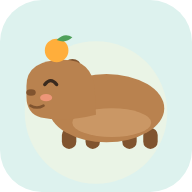
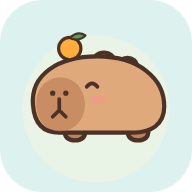
新版豚豚造型與圖示、專注計時器、段考成績圖、每週摘要
Claude-Session: https://claude.ai/code/session_01HJuhnYS1rGmZB59baY9RQL

Changed region(s): [[0.125, 0.1562, 0.875, 0.7812]]

diff --git a/index.html b/index.html
@@ -23,7 +23,7 @@
   --primary:#23938A; --primary-ink:#FFFFFF; --primary-soft:#DDF2EE;
   --sun:#FFAE3B; --sun-ink:#4A2C00; --sun-soft:#FFF0D9;
   --ok:#3E9B4F; --ok-soft:#E1F3DF; --warn:#C25E00; --bad:#D9483B; --bad-soft:#FCE4E0;
-  --capy:#B9824F; --capy-dark:#80542F; --capy-belly:#D9AA78; --blush:#FF9C86; --leaf:#4FA05A;
+  --capy:#DFA97C; --capy-dark:#BD8259; --capy-belly:#E9BE96; --capy-line:#4A3326; --blush:#F29A8A; --leaf:#4FA05A;
   --chip-l:89%; --chip-ink-l:26%; --shadow:0 2px 0 rgba(58,42,30,.08),0 10px 24px -14px rgba(58,42,30,.35);
   --f-display:"LXGW WenKai TC","Kaiti TC","STKaiti","KaiTi",serif;
   --f-body:"Noto Sans TC","PingFang TC","Microsoft JhengHei",system-ui,sans-serif;
@@ -33,7 +33,7 @@
   --primary:#62CFC3; --primary-ink:#0E2422; --primary-soft:#1E3B38;
   --sun:#FFBE5C; --sun-ink:#2E1C00; --sun-soft:#3A2F1C;
   --ok:#7BD48A; --ok-soft:#1E3A22; --warn:#FFAA55; --bad:#FF8F82; --bad-soft:#47221E;
-  --capy:#C48F5C; --capy-dark:#8E5F36; --capy-belly:#DDB284; --blush:#E98A76; --leaf:#6CC077;
+  --capy:#D9A273; --capy-dark:#AE744C; --capy-belly:#E3B68C; --capy-line:#24170F; --blush:#E98A76; --leaf:#6CC077;
   --chip-l:30%; --chip-ink-l:88%; --shadow:0 1px 0 rgba(0,0,0,.3),0 8px 24px -12px rgba(0,0,0,.6);
   color-scheme:dark}}
 :root[data-theme="dark"]{
@@ -41,7 +41,7 @@
   --primary:#62CFC3; --primary-ink:#0E2422; --primary-soft:#1E3B38;
   --sun:#FFBE5C; --sun-ink:#2E1C00; --sun-soft:#3A2F1C;
   --ok:#7BD48A; --ok-soft:#1E3A22; --warn:#FFAA55; --bad:#FF8F82; --bad-soft:#47221E;
-  --capy:#C48F5C; --capy-dark:#8E5F36; --capy-belly:#DDB284; --blush:#E98A76; --leaf:#6CC077;
+  --capy:#D9A273; --capy-dark:#AE744C; --capy-belly:#E3B68C; --capy-line:#24170F; --blush:#E98A76; --leaf:#6CC077;
   --chip-l:30%; --chip-ink-l:88%; --shadow:0 1px 0 rgba(0,0,0,.3),0 8px 24px -12px rgba(0,0,0,.6);
   color-scheme:dark}
 
@@ -77,6 +77,11 @@ header.top{display:flex;align-items:flex-end;justify-content:space-between;gap:1
 .reward span{min-width:0;overflow-wrap:anywhere}
 .cost{display:inline-flex;align-items:center;gap:3px;font-weight:700;font-variant-numeric:tabular-nums;white-space:nowrap}
 .daypick{width:36px;height:36px;font-size:16px}
+.fc-time{font-family:var(--f-display);font-size:58px;line-height:1;font-variant-numeric:tabular-nums}
+.fc .bar{flex:none;height:14px;min-width:0}
+.chart-card{border:2px solid var(--line);border-radius:14px;padding:10px 12px;display:flex;flex-direction:column;gap:6px;min-width:0}
+.chart-card svg{display:block;width:100%;height:auto}
+.charts{display:grid;grid-template-columns:repeat(auto-fill,minmax(260px,1fr));gap:10px}
 .hero{display:flex;gap:12px;align-items:flex-end;min-width:0}
 .hero .hello{min-width:0}
 .mascot{width:100px;flex:none;cursor:pointer;background:none;border:0;padding:0}
@@ -437,10 +442,18 @@ table.scores{width:100%;border-collapse:collapse;font-size:14px}
         <button class="btn ghost" id="parent-lock-btn" type="button">鎖上</button></div>
     </div>
     <div class="stats" id="parent-stats"></div>
+    <div class="bag" id="weekly">
+      <div class="row between"><div class="label">本週摘要</div><button class="btn ghost" id="wk-copy" type="button" style="padding:4px 12px">複製文字，貼到 LINE</button></div>
+      <div id="wk-text" style="white-space:pre-line;font-size:14px;line-height:1.7"></div>
+    </div>
     <div>
       <div class="label" style="margin-bottom:8px">這週每天完成多少</div>
       <div class="week" id="parent-week"></div>
     </div>
+    <div class="divider"></div>
+    <h3>段考成績</h3>
+    <p class="muted small">考完在「考試與提醒」填上分數，這裡會畫出每一科的變化，並列出考前練習題的答對率。</p>
+    <div id="parent-exams"></div>
     <div class="divider"></div>
     <h3>練習成績</h3>
     <div id="parent-scores" style="overflow-x:auto"></div>
@@ -474,6 +487,21 @@ table.scores{width:100%;border-collapse:collapse;font-size:14px}
     <div class="row" style="justify-content:center">
       <button class="btn" id="al-ok">好，我開始了</button>
       <button class="btn ghost" id="al-snooze">再 5 分鐘</button>
+    </div>
+  </div>
+</div>
+<div class="overlay" id="focus" hidden>
+  <div class="alert fc" role="dialog" aria-labelledby="fc-title">
+    <div class="capy" id="fc-capy" style="width:150px;margin:0 auto" aria-hidden="true"></div>
+    <div class="label" id="fc-kicker">專注中</div>
+    <h2 id="fc-title"></h2>
+    <div class="fc-time" id="fc-time" aria-live="off">00:00</div>
+    <div class="bar"><i id="fc-bar" style="width:0"></i></div>
+    <p class="muted small" id="fc-note">手機放旁邊，豚豚陪你一起讀。</p>
+    <div class="row" style="justify-content:center">
+      <button class="btn" id="fc-pause" type="button">暫停</button>
+      <button class="btn primary" id="fc-done" type="button">讀完了</button>
+      <button class="btn ghost" id="fc-quit" type="button">先不讀了</button>
     </div>
   </div>
 </div>
@@ -678,10 +706,12 @@ function renderPlan(){
       :it.exam&&ask?`<button class="go" data-examnote="${it.exam.id}">幫我整理這次考試的重點 →</button>`
       :it.kind==='wrong'?`<button class="go" data-wrongstart="1">開始錯題複習 →</button>`
       :s&&(it.kind==='exam'||it.kind==='review')&&noteSubjects.has(s.id)?`<button class="go" data-practice="${s.id}">去做 ${esc(s.name)} 練習題 →</button>`:'';
+    const focusBtn=!isBreak&&!isDone&&!readOnly&&it.kind!=='pack'?`<button class="go" data-focus="${it.id}">▶ 開始專注 ${it.mins} 分鐘</button>`:'';
+    const fm=(progress[dk]&&progress[dk].focus&&progress[dk].focus[it.id])||0;
     return `<li class="${cls}">
       <div class="time">${fmt(it.start)}<small>${it.mins} 分鐘</small></div>
       <div class="what"><div class="t">${tag}<span class="title">${esc(isBreak?it.title:(s?kind:it.title))}</span>${badge}</div>
-      <div class="n">${esc(it.kind==='activity'?it.note+'，讀書計劃會避開這段時間':isBreak?'離開書桌，喝口水、看看遠方':it.note)}</div>${practice}</div>
+      <div class="n">${esc(it.kind==='activity'?it.note+'，讀書計劃會避開這段時間':isBreak?'離開書桌，喝口水、看看遠方':it.note)}${fm?`（專注了 ${fm} 分鐘）`:''}</div>${practice}${focusBtn}</div>
       ${isBreak?'<span></span>':`<button class="check" data-id="${it.id}" aria-pressed="${isDone}" aria-label="${isDone?'取消完成':'完成'}：${esc(it.title)}" ${readOnly?'disabled':''}>${isDone?'✓':''}</button>`}
     </li>`}).join('');
   const total=tasks.length, pct=total?nDone/total:0, starN=Math.round(pct*5);
@@ -708,6 +738,7 @@ function bagHTML(){
 }
 $('panel-plan').addEventListener('click',e=>{
   const d=e.target.closest('.day'); if(d){viewDow=+d.dataset.d;renderPlan();return}
+  const fb=e.target.closest('[data-focus]'); if(fb){startFocus(fb.dataset.focus);return}
   const c=e.target.closest('.check');
   if(c){
     const dk=dkey(dateForDow(viewDow));
@@ -1110,7 +1141,7 @@ function renderRem(){
     const d=daysBetween(tk,e.date), s=subj(e.sid), dt=new Date(e.date+'T00:00');
     return `<li class="rem${d<0?' past':''}"><div class="when">${d<0?'考完了':d===0?'今天':d+' 天後'}<small>${dt.getMonth()+1}/${dt.getDate()}（${WD[dt.getDay()]}）</small></div>
       <div>${s?`<span class="subj" style="--h:${s.h}">${esc(s.name)}</span> `:''}<b>${esc(e.title)}</b>${e.scope?`<div class="small muted">範圍：${esc(e.scope)}</div>`:''}</div>
-      <div class="row" style="gap:4px;justify-content:flex-end">${d>=0&&s?(noteForExam(e.id)?`<button class="go" data-opennote="${noteForExam(e.id)}">看段考重點</button>`:(ask?`<button class="go" data-examnote="${e.id}">整理段考重點</button>`:'')):''}<button class="link" data-edel="${e.id}">刪除</button></div></li>`}).join('')
+      <div class="row" style="gap:4px;justify-content:flex-end">${d<=0?`<input class="inline-input" type="number" min="0" max="100" inputmode="numeric" placeholder="幾分" value="${e.score!=null?e.score:''}" data-escore="${e.id}" style="width:76px" aria-label="${esc(e.title)}的分數">`:''}${d>=0&&s?(noteForExam(e.id)?`<button class="go" data-opennote="${noteForExam(e.id)}">看段考重點</button>`:(ask?`<button class="go" data-examnote="${e.id}">整理段考重點</button>`:'')):''}<button class="link" data-edel="${e.id}">刪除</button></div></li>`}).join('')
     :'<li class="muted small">還沒有考試。加上考試日期，讀書計劃就會自動幫你多排複習時間。</li>';
   const nowD=now(), list=[...main.reminders].sort((a,b)=>(a.date+a.time).localeCompare(b.date+b.time));
   $('rem-list').innerHTML=list.length?list.map(r=>{
@@ -1128,6 +1159,12 @@ $('exam-form').addEventListener('submit',e=>{
   const d=daysBetween(todayKey(),x.date);
   toast(d>7?'考試加好了，考前一週會開始多排複習':'考試加好了，讀書計劃已經多排複習時間');
 });
+$('exam-list').addEventListener('change',e=>{
+  const id=e.target.dataset.escore; if(!id) return; const x=main.exams.find(y=>y.id===id); if(!x) return;
+  const v=e.target.value.trim();
+  if(v===''){delete x.score} else {x.score=Math.max(0,Math.min(100,Math.round(+v)))}
+  saveMain(); if(v!=='') toast(x.score>=90?'好厲害！豚豚幫你拍拍手':'分數記下來了');
+});
 $('exam-list').addEventListener('click',e=>{const b=e.target.closest('[data-edel]');if(!b)return;main.exams=main.exams.filter(x=>x.id!==b.dataset.edel);saveMain()});
 $('rem-form').addEventListener('submit',e=>{
   e.preventDefault();
@@ -1143,7 +1180,8 @@ function setFormDefaults(){
 
 /* ---------- parent ---------- */
 function renderParent(){
-  renderRewardsAdmin();
+  renderRewardsAdmin(); renderExamScores();
+  $('wk-text').textContent=weeklyText();
   const td=now().getDay(), mon=dateForDow(1); if(td===0) mon.setDate(mon.getDate()-7);
   let sumDone=0,sumTotal=0; const cols=[];
   for(let i=0;i<7;i++){
@@ -1163,7 +1201,7 @@ function renderParent(){
     ['這週完成率',sumTotal?Math.round(sumDone/sumTotal*100)+'%':'—',`${sumDone}/${sumTotal} 項`],
     ['下一場考試',nx?(nx.days===0?'今天':nx.days+' 天'):'—',nx?`${subj(nx.sid)?.name||''} ${nx.title}`:'沒有排考試'],
     ['練習平均答對',avg==null?'—':avg+'%',`共練習 ${allAtt.length} 次`],
-    ['重點筆記',Object.keys(notes).length+' 份',main.school.grade||'年級未填']
+    ['這週專注',weekKeys().reduce((a,k)=>a+(progress[k]?+progress[k].focusMin||0:0),0)+' 分','用專注計時器讀的時間']
   ].map(([k,v,s])=>`<div class="stat"><div class="k">${k}</div><div class="v">${esc(v)}</div><div class="small muted">${esc(s)}</div></div>`).join('');
   const rows=noteList().filter(n=>(n.attempts||[]).length);
   $('parent-scores').innerHTML=rows.length?`<table class="scores"><thead><tr><th>科目</th><th>單元</th><th>練習次數</th><th>最近一次</th><th>最好</th></tr></thead><tbody>${rows.map(n=>{
@@ -1226,6 +1264,7 @@ $('test-btn').addEventListener('click',()=>{
 function tick(){
   const n=now(), hm=pad(n.getHours())+':'+pad(n.getMinutes()), dk=dkey(n);
   $('clock').textContent=hm;
+  if(focus) return;
   if(!$('overlay').hidden) return;
   const done=(progress[dk]&&progress[dk].done)||{};
   for(const it of buildPlan(n.getDay())){
@@ -1280,6 +1319,138 @@ document.addEventListener('click',e=>{
   const o=e.target.closest('[data-opennote]'); if(o){openNote=o.dataset.opennote;showTab('notes');return}
   if(e.target.closest('[data-wrongstart]')){showTab('notes');startWrongReview()}
 });
+
+/* ---------- focus timer ---------- */
+let focus=null, wakeLock=null;
+function startFocus(itemId){
+  const dk=dkey(dateForDow(viewDow)), it=buildPlan(viewDow).find(i=>i.id===itemId); if(!it) return;
+  const ms=it.mins*60000;
+  focus={dk,id:it.id,title:it.title,total:ms,left:ms,endAt:Date.now()+ms,paused:false,elapsed:0,runStart:Date.now(),hiddenAt:null,leaves:0};
+  $('fc-title').textContent=it.title; $('fc-kicker').textContent='專注中'; $('fc-capy').innerHTML=capy('normal');
+  $('fc-note').textContent='手機放旁邊，豚豚陪你一起讀。'; $('fc-pause').textContent='暫停';
+  $('focus').hidden=false; tickFocus();
+  try{ if(navigator.wakeLock) navigator.wakeLock.request('screen').then(w=>{wakeLock=w}).catch(()=>{}) }catch(e){}
+}
+function focusSpent(){return focus?focus.elapsed+(focus.paused?0:Date.now()-focus.runStart):0}
+function tickFocus(){
+  if(!focus) return;
+  const left=focus.paused?focus.left:Math.max(0,focus.endAt-Date.now());
+  $('fc-time').textContent=pad(Math.floor(left/60000))+':'+pad(Math.floor(left/1000)%60);
+  $('fc-bar').style.width=Math.min(100,100-left/focus.total*100)+'%';
+  if(left<=0&&!focus.paused) finishFocus(true);
+}
+setInterval(tickFocus,1000);
+function finishFocus(complete){
+  const f=focus; if(!f) return;
+  const mins=Math.round(focusSpent()/60000);
+  focus=null; $('focus').hidden=true;
+  try{ if(wakeLock) wakeLock.release() }catch(e){} wakeLock=null;
+  if(!complete&&mins<1){toast('沒關係，準備好再開始');return}
+  const p=progress[f.dk]?clone(progress[f.dk]):{date:f.dk,done:{}};
+  p.focus=p.focus||{}; p.focus[f.id]=(p.focus[f.id]||0)+Math.max(1,mins);
+  p.focusMin=Object.values(p.focus).reduce((a,b)=>a+b,0); p.leaves=(p.leaves||0)+f.leaves;
+  if(complete){
+    p.done[f.id]=true;
+    const tasks=buildPlanFor(new Date(f.dk+'T12:00:00')).filter(i=>i.kind!=='break'&&i.kind!=='activity');
+    p.total=tasks.length; p.count=tasks.filter(i=>p.done[i.id]).length;
+  }
+  p.date=f.dk; progress[f.dk]=p; saveProgress(f.dk); renderPlan(); renderParent();
+  if(complete){chime(); toast(`專心讀了 ${Math.max(1,mins)} 分鐘！+1 柚子`)} else toast(`讀了 ${mins} 分鐘，有讀就很棒`);
+}
+$('fc-pause').addEventListener('click',()=>{
+  if(!focus) return;
+  if(focus.paused){focus.paused=false;focus.runStart=Date.now();focus.endAt=Date.now()+focus.left;$('fc-pause').textContent='暫停';$('fc-kicker').textContent='專注中'}
+  else{focus.left=Math.max(0,focus.endAt-Date.now());focus.elapsed+=Date.now()-focus.runStart;focus.paused=true;$('fc-pause').textContent='繼續';$('fc-kicker').textContent='暫停中'}
+  tickFocus();
+});
+$('fc-done').addEventListener('click',()=>finishFocus(true));
+$('fc-quit').addEventListener('click',()=>finishFocus(false));
+document.addEventListener('visibilitychange',()=>{
+  if(!focus) return;
+  if(document.hidden){focus.hiddenAt=Date.now();return}
+  if(!focus.hiddenAt) return;
+  const sec=Math.round((Date.now()-focus.hiddenAt)/1000); focus.hiddenAt=null;
+  if(sec<10) return;
+  focus.leaves++;
+  $('fc-capy').innerHTML=capy('alert');
+  $('fc-note').textContent=`豚豚發現你離開了 ${sec>=60?Math.round(sec/60)+' 分鐘':sec+' 秒'}，回來繼續加油！`;
+  setTimeout(()=>{if(focus)$('fc-capy').innerHTML=capy('normal')},4000);
+});
+
+/* ---------- weekly summary ---------- */
+function weekKeys(){const td=now().getDay(), mon=dateForDow(1); if(td===0) mon.setDate(mon.getDate()-7);
+  return [...Array(7)].map((_,i)=>{const d=new Date(mon);d.setDate(mon.getDate()+i);return dkey(d)})}
+function weeklyText(){
+  const keys=weekKeys(), tk=todayKey(), past=keys.filter(k=>k<=tk);
+  let done=0,total=0,focusMin=0,leaves=0,low=null;
+  past.forEach(k=>{
+    const p=progress[k]; let t=p&&p.total, c=p?+p.count||0:0;
+    if(!t) t=buildPlanFor(new Date(k+'T12:00:00')).filter(x=>x.kind!=='break'&&x.kind!=='activity').length;
+    done+=c; total+=t; focusMin+=p?+p.focusMin||0:0; leaves+=p?+p.leaves||0:0;
+    if(t&&(low===null||c/t<low.r)) low={k,r:c/t};
+  });
+  const atts=noteList().flatMap(n=>(n.attempts||[]).filter(a=>a.at&&dkey(new Date(a.at))>=keys[0]).map(a=>({...a,sid:n.sid})));
+  const accAll=atts.reduce((a,x)=>a+x.score,0), accTot=atts.reduce((a,x)=>a+x.total,0);
+  const bySub={}; atts.forEach(a=>{const o=bySub[a.sid]||(bySub[a.sid]={s:0,t:0}); o.s+=a.score; o.t+=a.total});
+  const weak=Object.entries(bySub).filter(([,o])=>o.t>=5&&o.s/o.t<0.6).map(([sid])=>subj(sid)?.name).filter(Boolean);
+  const weekYuzu=past.reduce((a,k)=>a+(progress[k]?+progress[k].count||0:0),0)+atts.reduce((a,x)=>a+x.score,0);
+  const ex=upcomingExams(tk).slice(0,3);
+  const scored=main.exams.filter(e=>e.score!=null&&e.date>=keys[0]&&e.date<=keys[6]);
+  const md=k=>`${+k.slice(5,7)}/${+k.slice(8)}`;
+  const lines=[`小書包週報（${md(keys[0])}–${md(keys[6])}）`,
+    `完成率：${total?Math.round(done/total*100):0}%（${done}/${total} 項）`,
+    `專注時間：${focusMin} 分鐘${leaves?`，中途離開畫面 ${leaves} 次`:''}`,
+    `練習題：${atts.length?`做了 ${atts.length} 次，平均答對 ${Math.round(accAll/Math.max(1,accTot)*100)}%`:'這週還沒練習'}；錯題本還有 ${wrongList().length} 題`,
+    `柚子：這週賺了 ${weekYuzu} 顆，現在有 ${yuzuBalance()} 顆`];
+  if(scored.length) lines.push('這週成績：'+scored.map(e=>`${subj(e.sid)?.name||''}${e.title} ${e.score} 分`).join('、'));
+  if(ex.length) lines.push('接下來的考試：'+ex.map(e=>`${subj(e.sid)?.name||''}${e.title}（${e.days===0?'今天':e.days+' 天後'}）`).join('、'));
+  const tips=[];
+  if(low&&low.r<0.6){const d=new Date(low.k+'T12:00:00'); const busy=(main.activities||[]).some(a=>(a.days||[]).includes(d.getDay()));
+    tips.push(`星期${WD[d.getDay()]}完成得最少${busy?'（那天有補習）':''}，可以把那天的預習移到週末。`)}
+  if(weak.length) tips.push(`${weak.join('、')}的練習答對率不到六成，可以先看重點再做錯題複習。`);
+  if(ex[0]&&ex[0].days<=7&&!noteForExam(ex[0].id)) tips.push(`${subj(ex[0].sid)?.name||''}${ex[0].title}快到了，可以先用「依段考範圍整理」整理重點。`);
+  if(!tips.length) tips.push(total&&done/total>=0.8?'這週表現很穩定，記得多稱讚她！':'先從每天完成一半開始，慢慢加上去就好。');
+  lines.push('豚豚建議：'+tips.join(''));
+  return lines.join('\n');
+}
+$('wk-copy').addEventListener('click',()=>{
+  const t=weeklyText();
+  navigator.clipboard.writeText(t).then(()=>toast('週報複製好了，可以貼到 LINE')).catch(()=>{
+    const r=document.createRange(); r.selectNodeContents($('wk-text')); const sel=getSelection(); sel.removeAllRanges(); sel.addRange(r); toast('已經選好文字，按「拷貝」就可以');
+  });
+});
+
+/* ---------- exam score charts ---------- */
+function scoreChart(list){
+  const W=300,H=120,l=30,r=14,t=14,b=26;
+  const minS=Math.min(...list.map(e=>e.score)), lo=Math.max(0,Math.min(60,Math.floor((minS-10)/20)*20));
+  const x=i=>list.length===1?(l+W-r)/2:l+i*(W-l-r)/(list.length-1);
+  const y=v=>t+(100-v)*(H-t-b)/(100-lo);
+  let g='';
+  for(let v=lo;v<=100;v+=20) g+=`<line x1="${l}" x2="${W-r}" y1="${y(v)}" y2="${y(v)}" stroke="var(--line)" stroke-width="1"/><text x="${l-6}" y="${y(v)+4}" text-anchor="end" font-size="11" fill="var(--muted)">${v}</text>`;
+  const pts=list.map((e,i)=>`${x(i)},${y(e.score)}`).join(' ');
+  const marks=list.map((e,i)=>{const d=new Date(e.date+'T00:00');
+    return `<g><title>${esc(e.title)}・${d.getMonth()+1}/${d.getDate()}・${e.score} 分</title>
+      <circle cx="${x(i)}" cy="${y(e.score)}" r="14" fill="transparent"/>
+      <circle cx="${x(i)}" cy="${y(e.score)}" r="5" fill="var(--primary)" stroke="var(--paper)" stroke-width="2"/>
+      <text x="${x(i)}" y="${H-8}" text-anchor="middle" font-size="11" fill="var(--muted)">${d.getMonth()+1}/${d.getDate()}</text></g>`}).join('');
+  const last=list[list.length-1], lx=x(list.length-1), ly=y(last.score);
+  return `<svg viewBox="0 0 ${W} ${H}" role="img" aria-label="分數變化">${g}
+    ${list.length>1?`<polyline points="${pts}" fill="none" stroke="var(--primary)" stroke-width="2" stroke-linejoin="round" stroke-linecap="round"/>`:''}
+    ${marks}<text x="${Math.min(lx,W-r-4)}" y="${ly-10}" text-anchor="${list.length===1?'middle':'end'}" font-size="13" font-weight="700" fill="var(--ink)">${last.score}</text></svg>`;
+}
+function renderExamScores(){
+  const by={}; main.exams.filter(e=>e.score!=null&&subj(e.sid)).sort((a,b)=>a.date.localeCompare(b.date)).forEach(e=>{(by[e.sid]=by[e.sid]||[]).push(e)});
+  const ids=Object.keys(by);
+  $('parent-exams').innerHTML=ids.length?`<div class="charts">${ids.map(sid=>{
+    const s=subj(sid), list=by[sid];
+    const at=noteList().filter(n=>n.sid===sid).flatMap(n=>n.attempts||[]), acc=at.length?Math.round(at.reduce((a,x)=>a+x.score,0)/Math.max(1,at.reduce((a,x)=>a+x.total,0))*100):null;
+    return `<div class="chart-card"><div class="row between"><span class="subj" style="--h:${s.h}">${esc(s.name)}</span>
+      <span class="small muted">${acc==null?'還沒做過練習題':'練習答對率 '+acc+'%'}</span></div>
+      ${scoreChart(list)}
+      <div class="small muted">${list.map(e=>`${esc(e.title)} ${e.score} 分`).join('・')}</div></div>`}).join('')}</div>`
+    :'<p class="muted small">還沒有成績。考完試後，到「考試與提醒」在那場考試旁邊填上分數。</p>';
+}
 
 /* ---------- yuzu points ---------- */
 const yuzu=(n=22)=>`<svg width="${n}" height="${n}" viewBox="0 0 24 24" aria-hidden="true"><circle cx="12" cy="13.5" r="9" fill="var(--sun)"/><circle cx="9" cy="11" r="2" fill="#fff" opacity=".35"/><path d="M12 5q4-5 9-2q-4 4-9 2z" fill="var(--leaf)"/></svg>`;
@@ -1439,23 +1610,24 @@ $('panel-parent').addEventListener('click',e=>{
 
 /* ---------- mascot ---------- */
 function capy(mood,spa){
-  const eye=mood==='happy'?'<path d="M21 37q4.5-6 9 0" fill="none" stroke="var(--ink)" stroke-width="2.6" stroke-linecap="round"/>'
-    :mood==='sleep'?'<path d="M21 38h9" stroke="var(--ink)" stroke-width="2.6" stroke-linecap="round"/>'
-    :'<circle cx="26" cy="37" r="3.2" fill="var(--ink)"/><circle cx="27.2" cy="35.8" r="1.1" fill="#fff"/>';
-  const extra=mood==='sleep'?'<text x="60" y="22" font-size="15" font-weight="700" fill="var(--muted)" font-family="sans-serif">z z</text>'
-    :mood==='alert'?'<text x="62" y="26" font-size="24" font-weight="700" fill="var(--bad)" font-family="sans-serif">!</text>':'';
-  const legs=spa?'':'<rect x="34" y="70" width="11" height="16" rx="5.5" fill="var(--capy-dark)"/><rect x="52" y="72" width="11" height="14" rx="5.5" fill="var(--capy-dark)"/><rect x="80" y="72" width="11" height="14" rx="5.5" fill="var(--capy-dark)"/><rect x="96" y="70" width="11" height="16" rx="5.5" fill="var(--capy-dark)"/>';
-  const water=spa?'<path d="M0 64q15-7 30 0t30 0 30 0 30 0V90H0z" fill="var(--primary)" opacity=".85"/><path d="M86 22q-4-6 0-12M98 24q-4-6 0-12M110 22q-4-6 0-12" fill="none" stroke="var(--muted)" stroke-width="2.2" stroke-linecap="round" opacity=".7"/>':'';
-  return `<svg viewBox="0 0 120 90" aria-hidden="true">${legs}
-    <ellipse cx="68" cy="55" rx="44" ry="26" fill="var(--capy)"/>
-    <ellipse cx="72" cy="66" rx="30" ry="11" fill="var(--capy-belly)" opacity=".55"/>
-    <ellipse cx="42" cy="23" rx="6.5" ry="5.5" fill="var(--capy-dark)"/>
-    <path d="M7 38q0-20 28-20q22 0 24 22l1 20q-24 6-42 2q-11-3-11-16z" fill="var(--capy)"/>
-    <ellipse cx="10.5" cy="43" rx="3.6" ry="2.5" fill="var(--capy-dark)"/>
-    <path d="M10 53q5 3 10 0" fill="none" stroke="var(--capy-dark)" stroke-width="2" stroke-linecap="round"/>
+  const L='var(--capy-line)', w=3.2;
+  const eye=mood==='happy'?`<path d="M53 46q4-5 8 0" fill="none" stroke="${L}" stroke-width="3" stroke-linecap="round"/>`
+    :mood==='sleep'?`<path d="M52 46q4.5 3.5 9 0" fill="none" stroke="${L}" stroke-width="3" stroke-linecap="round"/>`
+    :`<ellipse cx="57" cy="45" rx="2.9" ry="3.5" fill="${L}"/>`;
+  const extra=mood==='sleep'?'<text x="76" y="18" font-size="15" font-weight="700" fill="var(--muted)" font-family="sans-serif">z z</text>'
+    :mood==='alert'?'<text x="78" y="20" font-size="24" font-weight="700" fill="var(--bad)" font-family="sans-serif">!</text>':'';
+  const feet=spa?'':`<path d="M36 79q0 8 8 8t8-8" fill="var(--capy-dark)" stroke="${L}" stroke-width="${w}"/><path d="M84 79q0 8 8 8t8-8" fill="var(--capy-dark)" stroke="${L}" stroke-width="${w}"/>`;
+  const water=spa?'<path d="M0 64q15-7 30 0t30 0 30 0 30 0V96H0z" fill="var(--primary)" opacity=".88"/><path d="M94 20q-4-6 0-12M106 22q-4-6 0-12" fill="none" stroke="var(--muted)" stroke-width="2.4" stroke-linecap="round" opacity=".7"/>':'';
+  return `<svg viewBox="0 0 120 96" aria-hidden="true">${feet}
+    <ellipse cx="66" cy="27" rx="8" ry="7" fill="var(--capy-dark)" stroke="${L}" stroke-width="${w}"/>
+    <ellipse cx="84" cy="30" rx="7" ry="6" fill="var(--capy-dark)" stroke="${L}" stroke-width="${w}"/>
+    <path d="M12 60C10 37 31 23 61 23C93 23 112 40 112 61C112 75 102 81 88 81H32C20 81 13 74 12 60Z" fill="var(--capy)" stroke="${L}" stroke-width="${w}" stroke-linejoin="round"/>
+    <path d="M14.5 59c0-12 8-20 18.5-20s18.5 9 18.5 20.5S43.5 80 33 80c-11 0-18.5-8.5-18.5-21z" fill="var(--capy-dark)" opacity=".7"/>
     ${eye}
-    <ellipse cx="22" cy="47" rx="4.6" ry="2.8" fill="var(--blush)" opacity=".75"/>
-    <circle cx="30" cy="11" r="9" fill="var(--sun)"/><path d="M30 3q6-6 12-2q-5 5-12 2z" fill="var(--leaf)"/>
+    <circle cx="27" cy="51" r="2" fill="${L}"/><circle cx="37" cy="51" r="2" fill="${L}"/>
+    <path d="M32 55.5v8.5M32 64l-5 5M32 64l5 5" fill="none" stroke="${L}" stroke-width="2.8" stroke-linecap="round" stroke-linejoin="round"/>
+    <ellipse cx="62" cy="56" rx="5.5" ry="3.2" fill="var(--blush)" opacity=".75"/>
+    <circle cx="40" cy="17" r="8.5" fill="var(--sun)" stroke="${L}" stroke-width="2.4"/><path d="M40 9q6-6 12-2q-5 5-12 2z" fill="var(--leaf)" stroke="${L}" stroke-width="1.6" stroke-linejoin="round"/>
     ${extra}${water}</svg>`;
 }
 const CAPY_LINES=['慢慢來也沒關係，一起加油！','每完成一項，我就往溫泉走一步 ♨','累了就休息一下，喝口水吧','頭上的柚子香香的～','考試前一週，我會幫你多排複習','不會的題目先做記號，明天問老師','寫完作業再積木、滑手機比較安心喔'];

diff --git a/sw.js b/sw.js
@@ -1,5 +1,5 @@
 // App-shell cache: the planner works offline once it has been opened.
-const CACHE = 'kid-planner-v5';
+const CACHE = 'kid-planner-v6';
 const SHELL = ['./', 'index.html', 'manifest.webmanifest', 'icon.svg', 'icon-192.png', 'icon-512.png'];
 
 self.addEventListener('install', e => {
